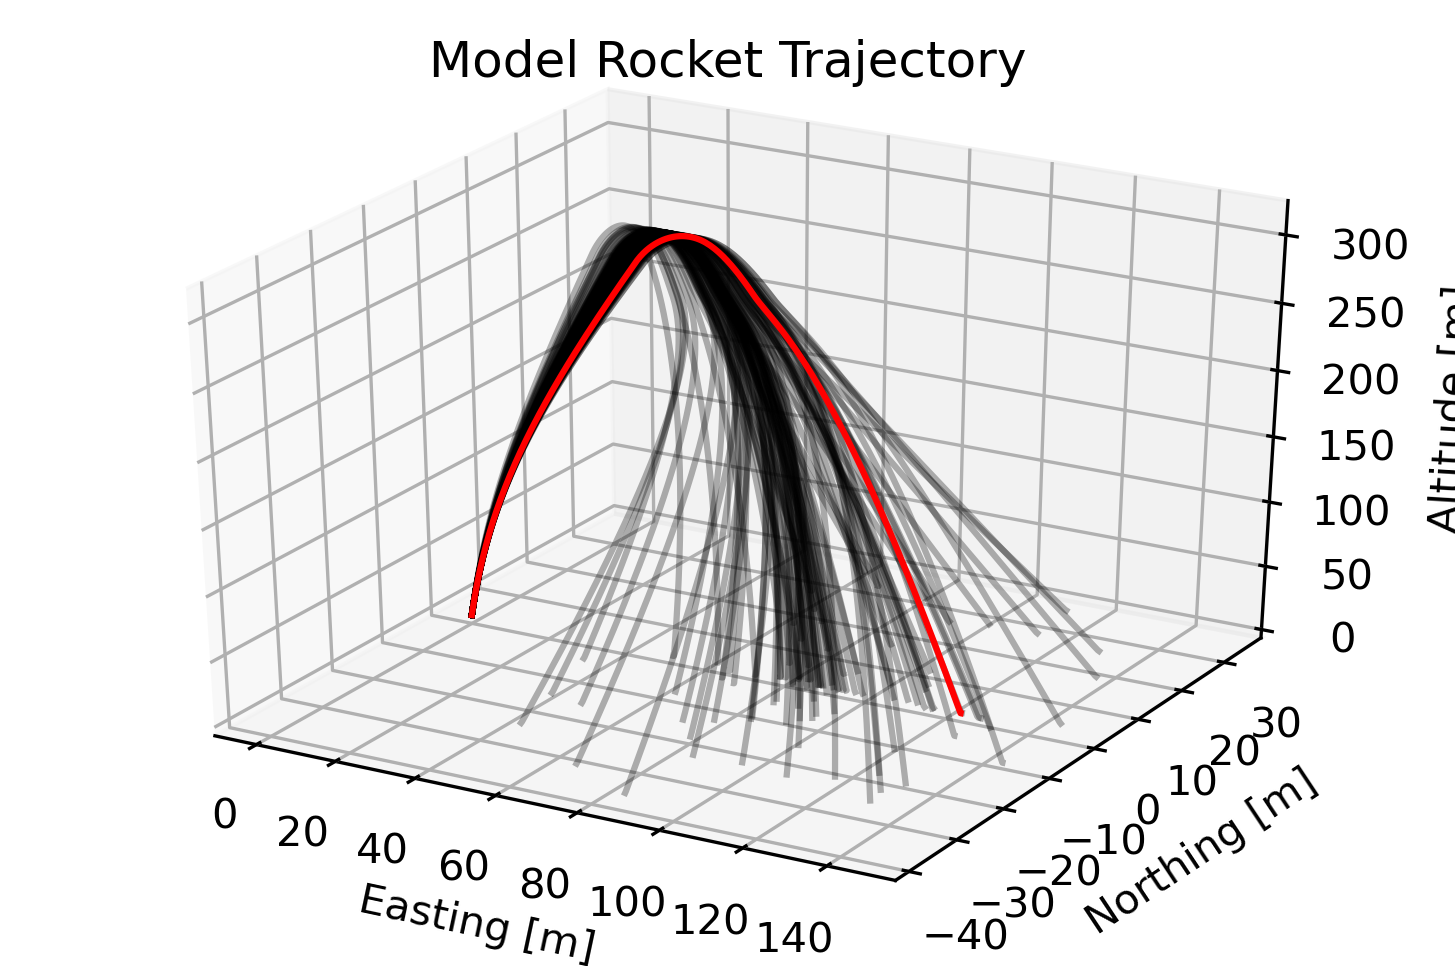
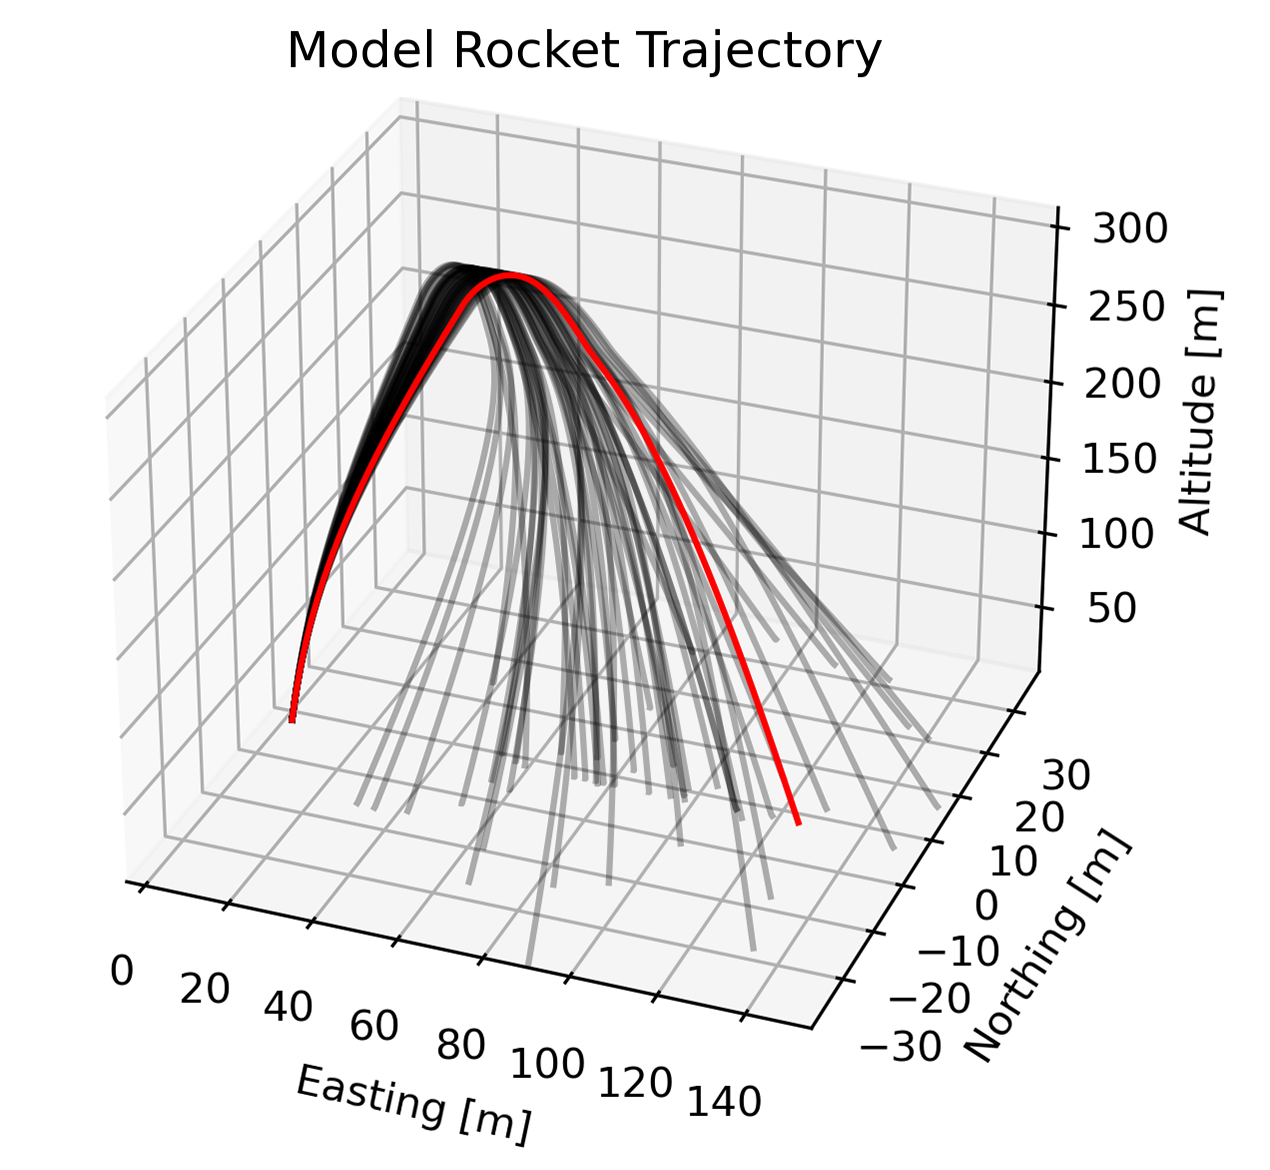
Update rocket example images

Changed region(s): [[0.0921, 0.0311, 1.0, 1.0], [0.9213, 0.6522, 0.952, 0.6832], [0.0921, 0.8075, 0.1228, 0.8385]]

diff --git a/examples/rocket/rocket_example_monte_carlo_sim.py b/examples/rocket/rocket_example_monte_carlo_sim.py
@@ -37,7 +37,7 @@ def rocket_example_monte_carlo_sim():
     mc_plot(sim.mcoutvars['Easting [m]'], sim.mcoutvars['Northing [m]'], sim.mcoutvars['Altitude [m]'], title='Model Rocket Trajectory', highlight_cases=0)
     #import matplotlib.pyplot as plt
     #plt.savefig('rocket_trajectory.png')
-    mc_multi_plot(sim.mcoutvars['Landing Dist [m]'], sim.mcinvars['Wind Speed [m/s]'], cov_p=0.95, title='Wind Speed vs Landing Distance w/ 95% CI', highlight_cases=0)
+    mc_multi_plot(sim.mcinvars['Wind Speed [m/s]'], sim.mcoutvars['Landing Dist [m]'], cov_p=0.95, title='Wind Speed vs Landing Distance w/ 95% CI', highlight_cases=0)
     #plt.savefig('wind_vs_landing.png')
     
     return sim

diff --git a/README.md b/README.md
@@ -9,8 +9,8 @@ At the heart of all serious forecasting, whether that be of elections, the sprea
 Monaco is a python library for setting up, running, and analyzing Monte-Carlo simulations. Users can define random input variables drawn using chosen sampling methods from any of SciPy's continuous or discrete distributions (including custom distributions), preprocess and structure that data as needed to feed to their main simulation, run that simulation in parallel anywhere from 1 to millions of times, and postprocess the simulation outputs to obtain meaningful, statistically significant conclusions. Plotting and statistical functions specific to use cases that might be encountered are provided, and repeatability of results is ensured through careful management of random seeds.
 
 <p float="left" align="center">
-<img width="440" height="300" src="examples/rocket/rocket_trajectory.png">  
-<img width="360" height="270" src="examples/rocket/wind_vs_landing.png">
+<img width="293.08" height="270" src="examples/rocket/rocket_trajectory.png">  
+<img width="384.94" height="270" src="examples/rocket/wind_vs_landing.png">
 </p>
 
 ### Basic Architecture:

diff --git a/examples/rocket/README.md b/examples/rocket/README.md
@@ -11,6 +11,6 @@ has a 10% chance of failure. These produce enough nonlinear dynamics to make
 for interesting results. 
 
 <p float="left" align="center">
-<img width="440" height="300" src="./rocket_trajectory.png">  
-<img width="360" height="270" src="./wind_vs_landing.png">
+<img width="293.08" height="270" src="./rocket_trajectory.png">  
+<img width="384.94" height="270" src="./wind_vs_landing.png">
 </p>
